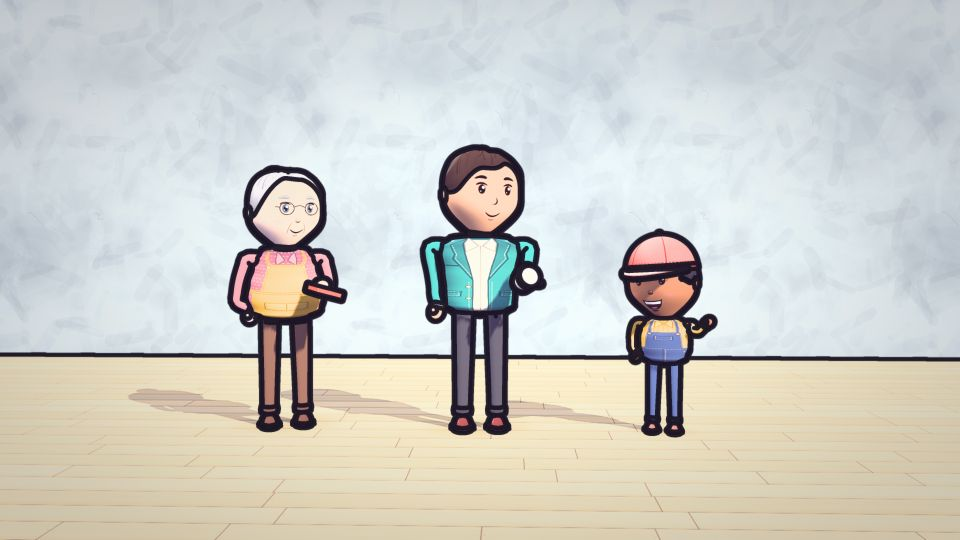
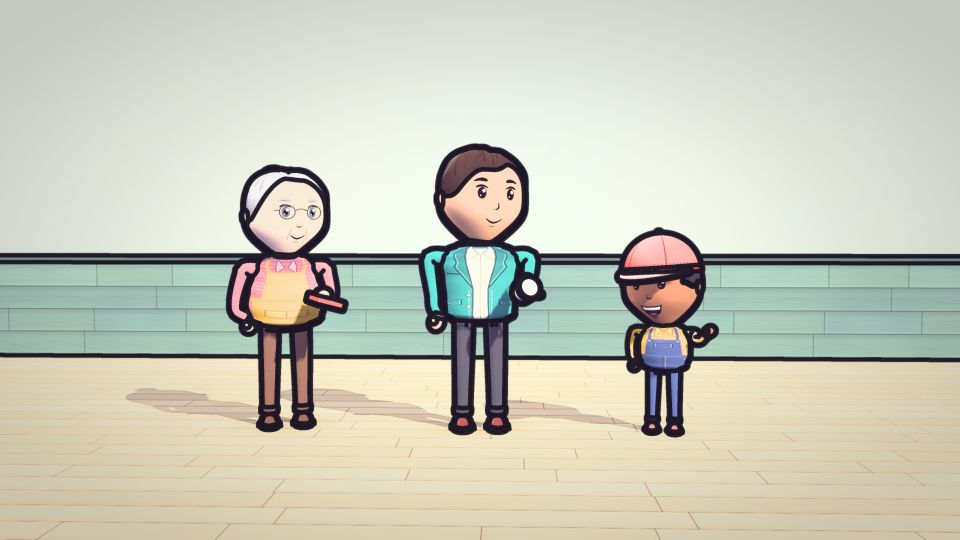
Improve the cartoon starter look
Slope the shoulders and round the torso, enlarge heads and eyes, give the
cast sheet a quiet painted wall with a wainscot, and shrink the hero shot's
foreground crates. Adds before/after comparison sheets.

diff --git a/cartoon/src/inkbeat/char/family.ts b/cartoon/src/inkbeat/char/family.ts
@@ -16,7 +16,7 @@
 
 // ------------------------------------------------------------------ head (h = 1)
 /** head half-width: the head is 0.27 h wide at the default head scale */
-export const HEAD_HW = 0.135;
+export const HEAD_HW = 0.148;
 /** crown radius / hw (rounded top) */
 export const HEAD_TOP = 1.06;
 /** jaw radius / hw: a longer lower half gives the egg shape and the chin */
@@ -54,8 +54,8 @@ export type TorsoKind = "block" | "barrel" | "pear";
  *  higher = squarer). block = broad shoulders tapering down, barrel = widest at the middle, pear = widest low. */
 export const TORSO_SHAPES: Record<TorsoKind, { profile: [number, number][]; cross: number }> = {
   block: {
-    profile: [[0, 0], [0.035, 0.66], [0.11, 0.86], [0.3, 0.88], [0.55, 0.93], [0.76, 1.0], [0.88, 0.97], [0.95, 0.74], [1, 0]],
-    cross: 2.9,
+    profile: [[0, 0], [0.035, 0.66], [0.11, 0.86], [0.3, 0.88], [0.55, 0.93], [0.72, 0.98], [0.82, 0.95], [0.9, 0.82], [0.96, 0.56], [1, 0]],
+    cross: 2.45,
   },
   barrel: {
     profile: [[0, 0], [0.045, 0.6], [0.15, 0.87], [0.36, 0.99], [0.56, 1.0], [0.75, 0.93], [0.88, 0.8], [0.95, 0.6], [1, 0]],
@@ -67,8 +67,8 @@ export const TORSO_SHAPES: Record<TorsoKind, { profile: [number, number][]; cros
   },
 };
 /** shoulder joint: height as a fraction of the torso height, and inset from the torso surface */
-export const SHOULDER_T = 0.83;
-export const SHOULDER_IN = 0.78;
+export const SHOULDER_T = 0.8;
+export const SHOULDER_IN = 0.8;
 /** hip joints: height above the torso bottom (fraction of the torso height) and spread (fraction of TORSO_R) */
 export const HIP_T = 0.11;
 export const HIP_X = 0.4;
@@ -79,7 +79,7 @@ export const FOREARM = 0.112;
 /** the arm plane is turned this far toward the front so arms read in 3/4 views (degrees) */
 export const ARM_PLANE_DEG = 9;
 /** sleeve radius at the shoulder and at the wrist */
-export const ARM_R: [number, number] = [0.026, 0.021];
+export const ARM_R: [number, number] = [0.031, 0.021];
 /** pant-leg radius at the hip and at the ankle */
 export const LEG_R: [number, number] = [0.034, 0.027];
 /** hand ball radius; the thumb is THUMB × that */
@@ -99,7 +99,7 @@ export const FACE_SPAN = 1.3;
 export const EYE_X = 0.36;
 export const EYE_Y = -0.03;
 /** open eye: iris half-size (hw) */
-export const IRIS = { rx: 0.092, ry: 0.124 };
+export const IRIS = { rx: 0.104, ry: 0.138 };
 export const BROW_UP = 0.3;
 export const NOSE_Y = 0.3;
 export const MOUTH_Y = 0.62;

diff --git a/cartoon/src/demo/DemoCast.tsx b/cartoon/src/demo/DemoCast.tsx
@@ -30,7 +30,10 @@ export const DemoCast: React.FC<{ mood?: string }> = ({ mood = "day" }) => {
     <AbsoluteFill style={{ background: "#1a1220" }}>
       <View mood={m} cam={cam} t={t} focus={center} blur={0.4} width={1920} height={1080}>
         <M g={boxG(14, 0.1, 8)} c="#c9b89c" tex="planks" p={[0, -0.05, -1]} />
-        <M g={boxG(14, 4, 0.2)} c="#9fb6c8" tex="plaster" p={[0, 2, -3.2]} />
+        <M g={boxG(14, 4, 0.2)} c="#a7c0c3" tex="paper" p={[0, 2, -3.2]} />
+        {/* a painted wainscot and rail: a quiet, cool backdrop that complements the warm floor */}
+        <M g={boxG(14, 0.95, 0.04)} c="#6f9690" tex="planks" p={[0, 0.475, -3.07]} />
+        <M g={boxG(14, 0.07, 0.08)} c="#4d6f6a" tex="wood" p={[0, 0.97, -3.05]} />
         {ROW.map((r) => {
           const c = CAST[r.key];
           return (

diff --git a/cartoon/src/demo/Demo.tsx b/cartoon/src/demo/Demo.tsx
@@ -53,8 +53,8 @@ export const Demo: React.FC<{ mood?: string; wide?: boolean; hero?: boolean }> =
         />
         {shot ? (
           <>
-            <Crate p={shot.fg[0]} s={0.4} yaw={0.4} />
-            <Crate p={shot.fg[1]} s={0.32} yaw={-0.3} />
+            <Crate p={shot.fg[0]} s={0.24} yaw={0.4} />
+            <Crate p={shot.fg[1]} s={0.2} yaw={-0.3} />
           </>
         ) : null}
         <CastLight at={head} cam={cam.pos} mood={m} />
